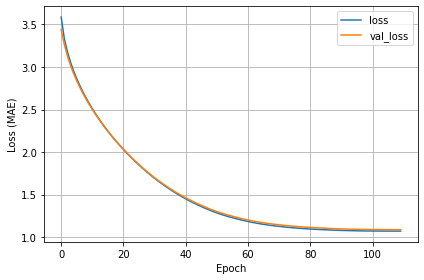
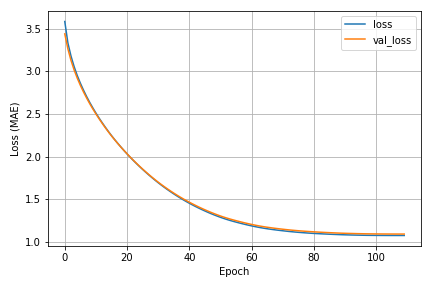
fixed hidden axis issue with loss plot..again

Changed region(s): [[0.0, 0.0, 1.0, 0.9714]]

diff --git a/ml_stuff/training/ml_training.py b/ml_stuff/training/ml_training.py
@@ -47,7 +47,7 @@ def plot_loss(model_history, exp=False, save=False):
         fig = plt.gca()
         save_dir = os.getcwd()
         name = "loss_plot.png"
-        plt.savefig(os.path.join(save_dir, name))
+        plt.savefig(os.path.join(save_dir, name), facecolor="w")
     plt.show()
 
 
